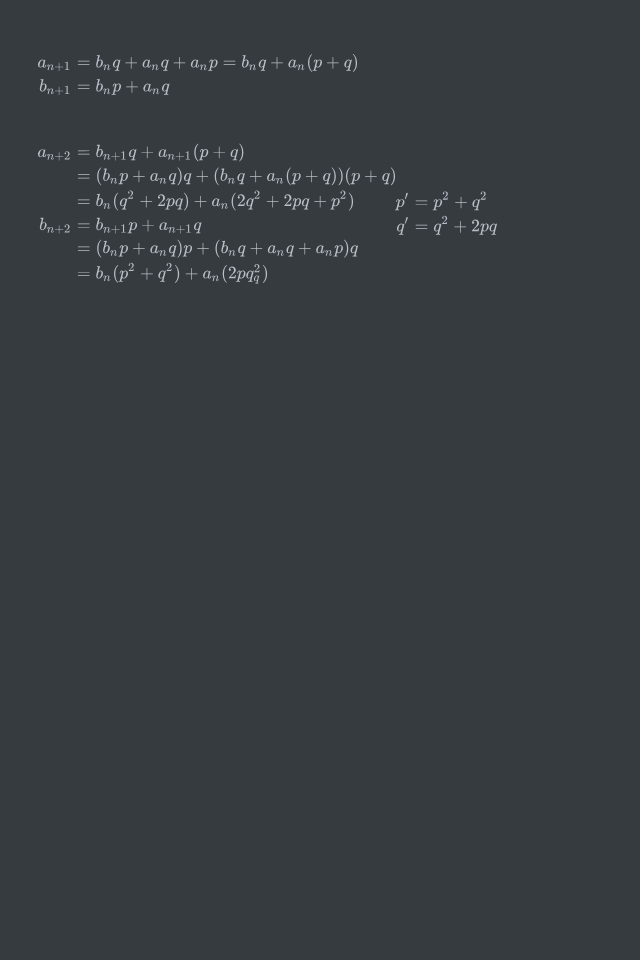
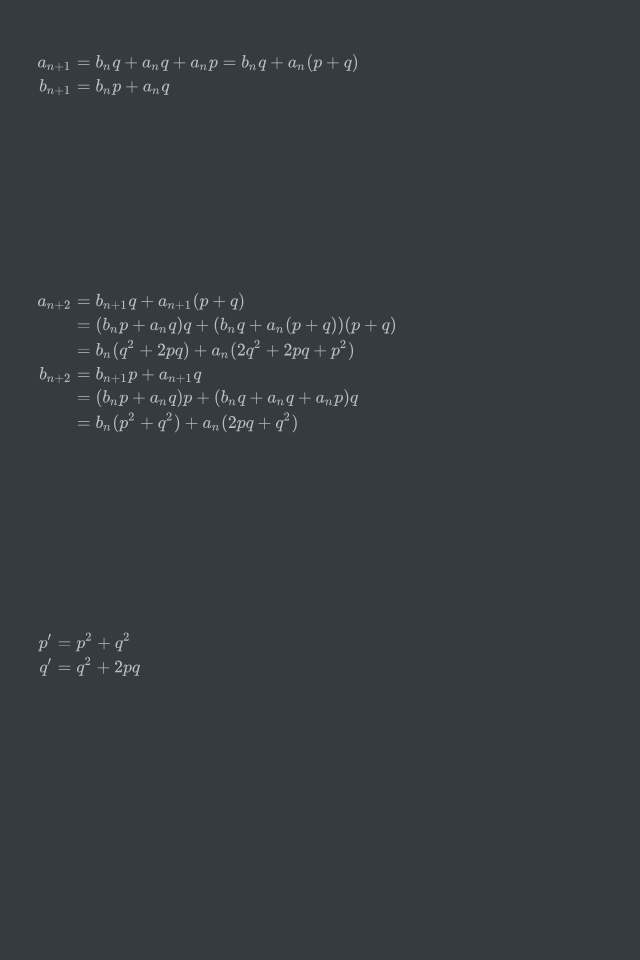
fix typos

diff --git a/SICP/ex-1.19.md b/SICP/ex-1.19.md
@@ -5,6 +5,9 @@ b_{n+1} &= b_np + a_nq \\
 \end{align}
 $$
 
+
+
+
 $$
 \begin{align}
 a_{n+2} &= b_{n+1}q + a_{n+1}(p + q) \\
@@ -12,9 +15,11 @@ a_{n+2} &= b_{n+1}q + a_{n+1}(p + q) \\
 &= b_n(q^2+2pq) + a_n(2q^2 + 2pq + p^2) \\
 b_{n+2} &= b_{n+1}p + a_{n+1}q \\
 &= (b_np + a_nq)p + (b_nq + a_nq + a_np)q \\
-&= b_n(p^2+q^2) + a_n(2pq _ q^2) \\
+&= b_n(p^2+q^2) + a_n(2pq + q^2) \\
 \end{align}
 $$
+
+
 
 $$
 \begin{align}
@@ -22,4 +27,5 @@ p' &= p^2 + q^2 \\
 q' &= q^2 + 2pq \\
 \end{align}
 $$
+
 
